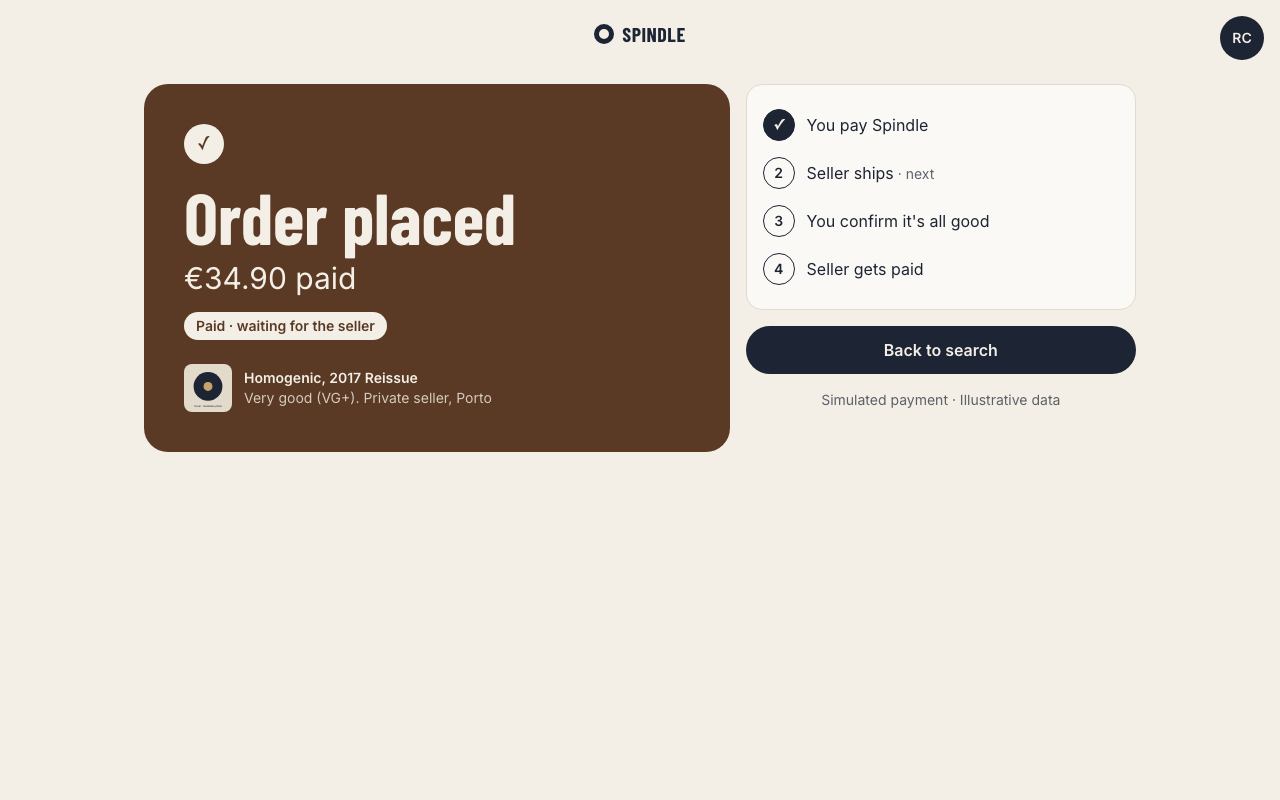
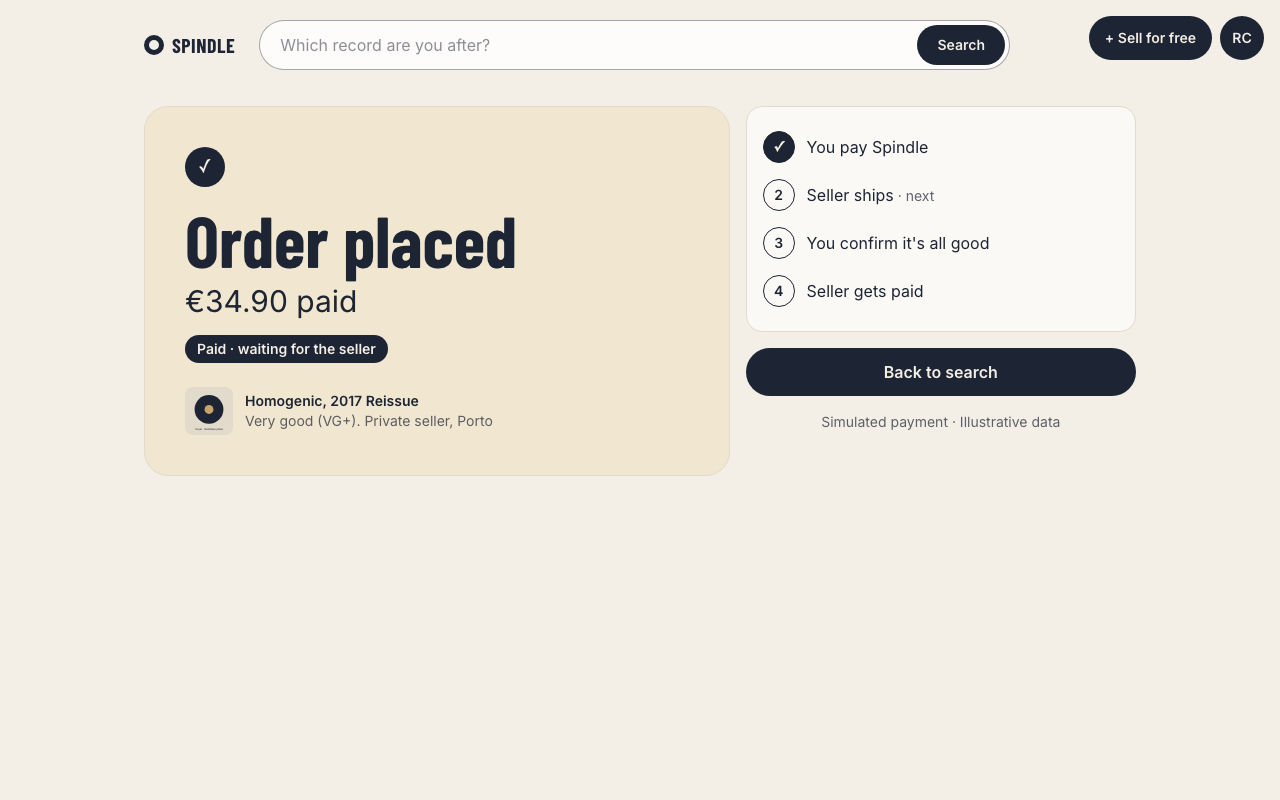
Light sand emphasis cards instead of dark brown; Figma UI principles added to the ux-review checklist

diff --git a/app/orders/[id]/page.tsx b/app/orders/[id]/page.tsx
@@ -20,14 +20,14 @@ export default async function OrderPage({ params }: { params: Promise<{ id: stri
     <main className="mx-auto max-w-5xl px-4 pb-16">
       <Header />
       <div className="mt-4 grid gap-4 lg:grid-cols-[3fr_2fr] lg:items-start">
-        <section aria-label="Order" className="rounded-3xl bg-brown p-6 text-cream lg:p-10">
-          <span aria-hidden className="flex h-10 w-10 items-center justify-center rounded-full bg-cream text-lg text-brown">✓</span>
+        <section aria-label="Order" className="rounded-3xl border border-line bg-sand p-6 text-navy lg:p-10">
+          <span aria-hidden className="flex h-10 w-10 items-center justify-center rounded-full bg-navy text-lg text-cream">✓</span>
           <h1 className="mt-4 font-heading text-5xl leading-none lg:text-7xl">Order placed</h1>
           <p className="mt-2 text-2xl lg:text-3xl">{euros(order.total)} paid</p>
-          <p className="mt-4 inline-block rounded-full bg-cream px-3 py-1 text-sm font-semibold text-brown">
+          <p className="mt-4 inline-block rounded-full bg-navy px-3 py-1 text-sm font-semibold text-cream">
             Paid · waiting for the seller
           </p>
-          <div className="mt-6 hidden items-center gap-3 lg:flex">{record(order)}</div>
+          <div className="mt-6 hidden items-center gap-3 lg:flex">{record(order, true)}</div>
         </section>
 
         <div className="flex flex-col gap-4">

diff --git a/app/AlbumSearch.tsx b/app/AlbumSearch.tsx
@@ -81,9 +81,9 @@ export function AlbumSearch({
           <ErrorScreen message="We couldn't load the albums. Check your connection." onRetry={() => setAttempt((n) => n + 1)} />
         )}
         {nobodySelling && (
-          <div role="status" className="mb-4 rounded-2xl bg-brown p-5 text-cream">
+          <div role="status" className="mb-4 rounded-2xl border border-line bg-sand p-5 text-navy">
             <p className="font-heading text-2xl">Nobody is selling this album right now</p>
-            <p className="mt-1 text-sm opacity-90">
+            <p className="mt-1 text-sm text-navy/80">
               {nobodySelling.title} · {nobodySelling.artist}
             </p>
           </div>

diff --git a/app/listings/[listingId]/page.tsx b/app/listings/[listingId]/page.tsx
@@ -122,8 +122,8 @@ export default async function ListingCheckPage({
         </ul>
       </section>
 
-      <section aria-labelledby="condition" className="mt-6 rounded-2xl bg-brown p-4 text-cream">
-        <h2 id="condition" className="text-sm opacity-80">Condition</h2>
+      <section aria-labelledby="condition" className="mt-6 rounded-2xl border border-line bg-sand p-4 text-navy">
+        <h2 id="condition" className="text-sm text-navy/70">Condition</h2>
         <p className="mt-1 text-lg font-semibold">
           {l.condition.code} means {l.condition.name.toLowerCase()}, with {l.condition.explanation.toLowerCase()}
         </p>

diff --git a/app/genres/[genre]/GenreAlbums.tsx b/app/genres/[genre]/GenreAlbums.tsx
@@ -10,9 +10,9 @@ export function GenreAlbums({ albums }: { albums: AlbumSummary[] }) {
   return (
     <>
       {nobodySelling && (
-        <div role="status" className="mb-4 rounded-2xl bg-brown p-5 text-cream">
+        <div role="status" className="mb-4 rounded-2xl border border-line bg-sand p-5 text-navy">
           <p className="font-heading text-2xl">Nobody is selling this album right now</p>
-          <p className="mt-1 text-sm opacity-90">
+          <p className="mt-1 text-sm text-navy/80">
             {nobodySelling.title} · {nobodySelling.artist}
           </p>
         </div>

diff --git a/app/sell/versions/[versionId]/SellForm.tsx b/app/sell/versions/[versionId]/SellForm.tsx
@@ -208,7 +208,7 @@ export function SellForm({ version, needsCity }: { version: VersionToSell; needs
         </div>
       </div>
 
-      <aside aria-label="Commission" className="mt-8 hidden rounded-3xl bg-brown p-6 text-cream lg:mt-20 lg:block">
+      <aside aria-label="Commission" className="mt-8 hidden rounded-3xl border border-line bg-sand p-6 text-navy lg:mt-20 lg:block">
         <p className="font-heading text-7xl leading-none">0%</p>
         <p className="mt-1 text-xl font-semibold">commission on every sale</p>
         <p className="mt-4">{youReceive}</p>

diff --git a/app/globals.css b/app/globals.css
@@ -5,6 +5,7 @@
   --color-cream: #f4efe6;
   --color-navy: #1d2433;
   --color-brown: #5a3a24;
+  --color-sand: #f1e6d0; /* light emphasis cards (DECISIONS · light emphasis cards) */
   --color-line: #e2dacb;
   --font-heading: var(--font-heading), "Arial Narrow", sans-serif;
   --font-body: var(--font-body), system-ui, sans-serif;

diff --git a/.claude/skills/ux-review/references/checklist.md b/.claude/skills/ux-review/references/checklist.md
@@ -48,3 +48,18 @@ Basic accessibility:
 - Text contrast looks sufficient (body text on cream, white on navy); flag doubtful pairs, do not guess ratios without measuring
 - Interactive elements look interactive; focus is visible
 - Images that carry meaning have text (album cover, photos); icons have labels
+
+## D. UI principles (type: Usability — Low unless it blocks a demo task)
+
+Added 2026-11-08 from Figma's article "Princípios de design de UI" (https://www.figma.com/pt-br/resource-library/principios-design-ui/), written in our own words and tied to what went wrong in Spindle. Use them to look at a screen as a whole; a finding still needs a screenshot or a design page as evidence.
+
+- **Hierarchy:** the most important thing on the screen (the answer, the primary action) is the strongest by size, weight, colour and space; look at the screenshot squinting: is it the first thing seen? Content is ordered by what the user needs first.
+- **Progressive disclosure:** a long task is split into steps, each showing only what that step needs, and the user can tell where they are and what is left (sell flow, checkout). Detail that is not needed yet stays out of sight.
+- **Consistency:** the same kind of element looks and behaves the same everywhere (buttons, cards, tags, back buttons, "Try again"); a deviation needs a reason recorded in `DECISIONS.md`.
+- **Contrast and balance of colour:** strong contrast only for what must be noticed (the primary action, a warning); softer for the rest. Across the whole page, dark and light weight should be spread evenly, not clustered, and colours should not all be the same family (the old home page: three beige crates and one dark card looked flat and lopsided). Compare against the colours of the design page.
+- **Accessibility:** contrast measured, not guessed (WCAG AA: 4.5:1 for body text, 3:1 for large text and controls); alt text for images that carry meaning; visible focus; everything reachable by keyboard; tap targets of at least 44 px; meaning never carried by colour alone.
+- **Proximity:** related things sit together and unrelated things apart, so groups are read correctly and the wrong thing is not tapped (a tag next to the name it belongs to; "Change" next to the thing it changes; destructive actions apart from safe ones).
+- **Alignment:** blocks on a page share one grid and the same left and right edges; rows of cards have equal sizes and gaps (the old home page: three equal columns above, a 3:2 split below, a card with an empty gap at its bottom).
+- **Flow (perspective):** the screen leads the eye through the steps in the order the user's goal needs, and the next action is where the eye ends up.
+- **Effortless use:** navigation is the same on every page, every action gives visible feedback (selected, loading, saved, failed) and common tasks have a shortcut (search in the header on desktop).
+- **Test with people:** when the check is about how it feels, say so in the report and propose watching someone use the screen (the Product Owner's own eye counts: her "this is not balanced" on the home page was a valid finding).

diff --git a/.claude/skills/ux-review/SKILL.md b/.claude/skills/ux-review/SKILL.md
@@ -63,7 +63,7 @@ Look at both screenshots and the matching design page, then go through `referenc
 
 - **Design mismatch** — elements, texts, order and layout that differ from the Assignment 1 screen (minus deliberate differences)
 - **Rule broken** — a `CLAUDE.md` rule the screen breaks (traffic-light word, illustrative-data label, 375/1280 layout, shared loading/error, palette and type, tap targets)
-- **Usability** — heuristics and basic accessibility
+- **Usability** — heuristics, basic accessibility and the UI principles of section D (hierarchy, progressive disclosure, consistency, contrast and colour balance, accessibility, proximity, alignment)
 
 Before adding a finding, check the register: re-check open findings (mark `resolved` only if the new screenshot shows the problem gone) and avoid duplicates.
 
@@ -95,3 +95,4 @@ Then stop and let the user decide. Do not start fixing.
 
 ## Histórico
 - 2026-11-08 · Skill criada: ecrãs em falta primeiro, depois fidelidade aos mockups, regras do CLAUDE.md e heurísticas (estas sempre Low salvo se bloquearem a demo); screenshots Playwright a 375/1280; registo + relatório HTML privado · a Helena quis validar os ecrãs construídos e saber o que falta antes da entrega
+- 2026-11-08 · Checklist com a secção D (princípios de design de UI do artigo da Figma, reescritos e ligados ao que correu mal na homepage: hierarquia, equilíbrio de cor, alinhamento à mesma grelha) · a Helena achou a homepage desequilibrada e pediu para juntar estas recomendações à skill

diff --git a/CLAUDE.md b/CLAUDE.md
@@ -43,7 +43,7 @@ Wait for my yes before committing.
 - At the end of each session, propose a row for `docs/AI_USAGE.md`.
 
 ## Visual direction (Assignment 1 designs, `docs/design/`)
-- Warm cream background; dark navy for primary buttons and selected states; dark brown for emphasis cards. Rounded cards with thin borders; pill-shaped buttons and tags.
+- Warm cream background; dark navy for primary buttons and selected states; light sand cards (with a thin border) for emphasis. Rounded cards with thin borders; pill-shaped buttons and tags.
 - Headings in a bold condensed sans-serif; body text in a plain, readable sans-serif.
 - The traffic light always shows its word (Match / Check / No match), never colour alone; illustrative data is always labelled.
 - Phone first: one column, large tap targets. On desktop, listings sit beside the recommendation.

diff --git a/DECISIONS.md b/DECISIONS.md
@@ -3,6 +3,12 @@
 > Decided **before the first prompt**, as required by the assignment brief (section 5) and Class 2, slide 11.
 > Most recent first.
 
+## 2026-11-08 — Light emphasis cards
+
+### Emphasis cards are light sand, not dark brown (all screens)
+- **Why:** the dark brown cards (order confirmation, "Nobody is selling this album right now", the listing check's condition, the "0% commission" card on the sell form) were too heavy and unbalanced the pages. They are now sand (#f1e6d0) with a thin border and navy text. The home page's featured card keeps the design's navy.
+- **Differs from:** the Assignment 1 designs and `order-confirmation.html`, where these cards are dark brown.
+
 ## 2026-11-08 — Story 12 · Home page as in the design
 
 ### The home page follows the Assignment 1 design: six crates, navy featured card (story 12)
